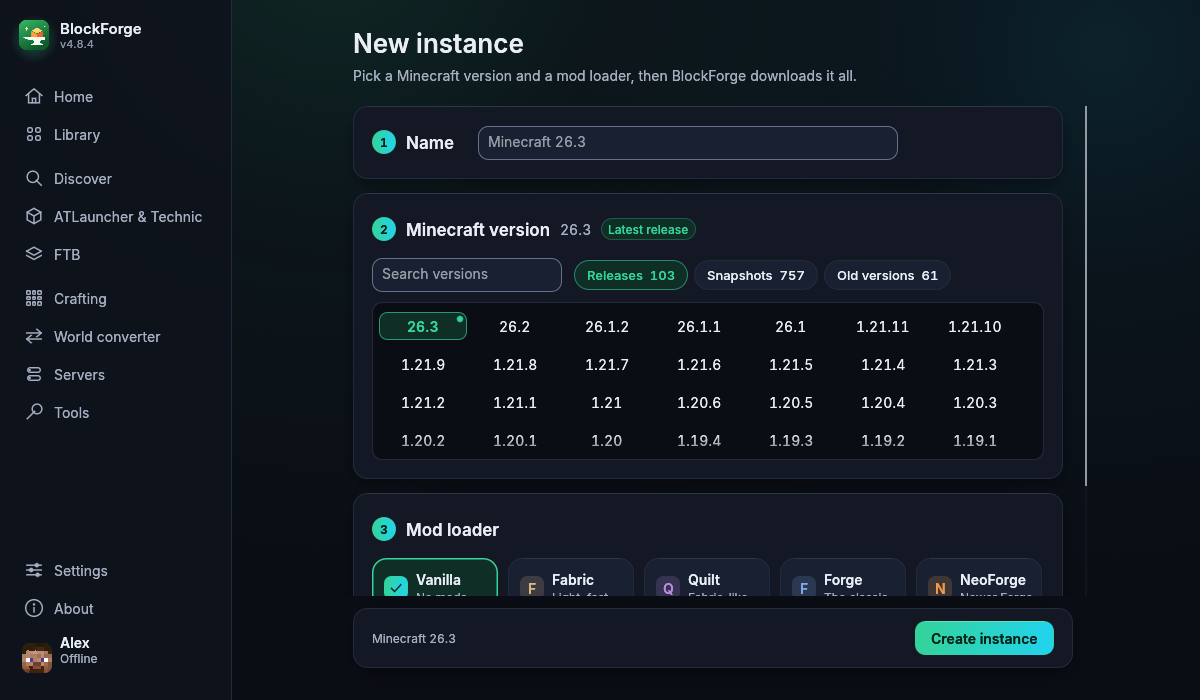
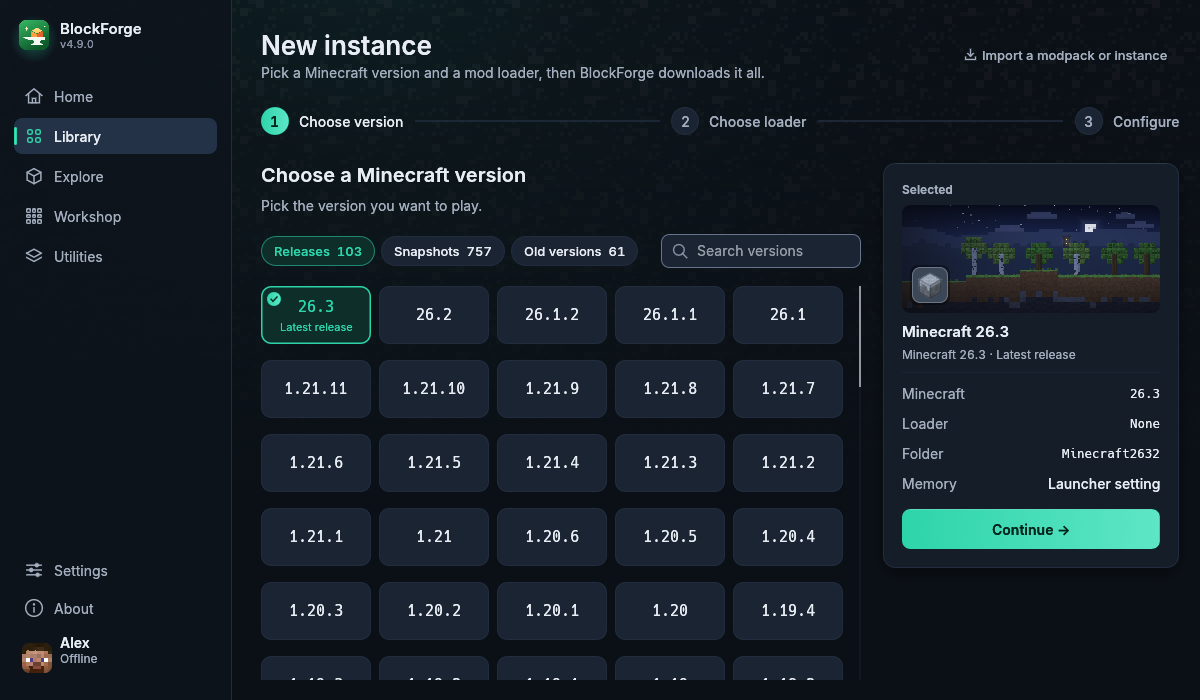
Screenshots and README for the Workbench: the new pages, the covers, and where things are now; the screenshot tour shows the converter's made-up folder as a fine place to save

diff --git a/src/gui/convert.rs b/src/gui/convert.rs
@@ -991,6 +991,8 @@ impl ConvertState {
                 Some(Dest { folder: "Survival".into(), name: "Survival".into(), saves, mc_version: "1.21.4".into() });
             self.via_instance = true;
         }
+        // the made-up folders aren't on this computer, and nothing is written for a picture: the place is fine
+        self.out_check = Some((self.output.clone(), self.source.clone(), OutputCheck::Ok));
         let job = ConvertJob {
             input: source,
             output: PathBuf::from(&self.output),

diff --git a/README.md b/README.md
@@ -39,6 +39,10 @@
 - **Native and fast.** The launcher is a single small Rust program: no Java to start up first, so the window is there in
   a fifth of a second. Minecraft itself still runs on Java, and BlockForge downloads the right Java for each game for
   you.
+- **Built around playing.** Home opens on the instance you played last, with one big Play button. Every instance gets
+  its own pixel-art landscape as its cover, drawn from its version, loader and a theme you can pick, so your
+  instances look like games, not rows in a table. Everything else sits in five places: Home, Library, Explore,
+  Workshop and Utilities.
 - **Play offline, no account needed.** Type any name and play, pick a saved player, or sign in with Microsoft. Signing in
   is optional.
 - **Every modpack source in one place.** ATLauncher, CurseForge, Modrinth, FTB and Technic packs, or any Minecraft version
@@ -56,11 +60,11 @@
   Forge and NeoForge. **Low-end mode** lowers the graphics settings of games on a slow computer (on by itself when the
   computer looks slow) and puts your own settings back when you switch it off. Each can be switched off in
   Settings > Game and for each instance on its own.
-- **A crafting calculator.** Pick an item and an amount and the Crafting page lists what to gather, what to craft or
+- **A crafting calculator.** Pick an item and an amount and the calculator in the Workshop lists what to gather, what to craft or
   smelt in order, the fuel, and how many chests it takes, using the recipes of your own Minecraft files, so every
   version from 1.13 on works.
-- **World conversion.** Bedrock Edition worlds to Java Edition, and only that way. The Tools page has a Convert a
-  Bedrock world screen (a world folder, or a `.mcworld` or `.zip`, to a Java world from 1.13 to the newest version), and
+- **World conversion.** Bedrock Edition worlds to Java Edition, and only that way. The Workshop has a world converter
+  that walks you through it step by step (a world folder, or a `.mcworld` or `.zip`, to a Java world from 1.13 to the newest version), and
   an instance has an Add a Bedrock world button that converts the world straight into its saves folder, so it shows
   up in Singleplayer. World conversion is powered by a Rust port of [Chunker](https://github.com/HiveGamesOSS/Chunker) by Hive Games (MIT). The original
   world is never changed. See [Credits and license](#credits-and-license).
@@ -74,15 +78,15 @@
 
 <table>
   <tr>
-    <td width="50%"><img src="docs/screenshots/home.png" alt="Home" width="100%"><br><sub>Home: continue where you left off, with a strip of the days you played</sub></td>
-    <td width="50%"><img src="docs/screenshots/library.png" alt="Library" width="100%"><br><sub>Library of your instances</sub></td>
+    <td width="50%"><img src="docs/screenshots/home.png" alt="Home" width="100%"><br><sub>Home: continue where you left off, on the instance's own cover</sub></td>
+    <td width="50%"><img src="docs/screenshots/library.png" alt="Library" width="100%"><br><sub>Library: covers, favourites and a filter for each loader</sub></td>
   </tr>
   <tr>
-    <td width="50%"><img src="docs/screenshots/mods.png" alt="Mods" width="100%"><br><sub>Mods with icons, updates and one-click switches</sub></td>
-    <td width="50%"><img src="docs/screenshots/discover.png" alt="Discover" width="100%"><br><sub>Find mods on Modrinth or CurseForge</sub></td>
+    <td width="50%"><img src="docs/screenshots/mods.png" alt="Mods" width="100%"><br><sub>Mods with icons, waiting updates and one-click switches</sub></td>
+    <td width="50%"><img src="docs/screenshots/discover.png" alt="Discover" width="100%"><br><sub>Explore Modrinth, CurseForge, ATLauncher, Technic and FTB in one place</sub></td>
   </tr>
   <tr>
-    <td width="50%"><img src="docs/screenshots/convert.png" alt="World converter" width="100%"><br><sub>World converter: Bedrock to Java</sub></td>
+    <td width="50%"><img src="docs/screenshots/convert.png" alt="World converter" width="100%"><br><sub>World converter: Bedrock to Java, step by step</sub></td>
     <td width="50%"><img src="docs/screenshots/crafting.png" alt="Crafting calculator" width="100%"><br><sub>Crafting calculator: what to gather and craft</sub></td>
   </tr>
 </table>
@@ -92,20 +96,20 @@
 
 <table>
   <tr>
-    <td width="50%"><img src="docs/screenshots/instance.png" alt="Instance" width="100%"><br><sub>One instance: facts, play history and backups</sub></td>
+    <td width="50%"><img src="docs/screenshots/instance.png" alt="Instance" width="100%"><br><sub>One instance: play time, play history and backups</sub></td>
     <td width="50%"><img src="docs/screenshots/logs.png" alt="Game log" width="100%"><br><sub>The game's log, live, with filter and copy</sub></td>
   </tr>
   <tr>
     <td width="50%"><img src="docs/screenshots/packs.png" alt="Modpacks" width="100%"><br><sub>ATLauncher and Technic modpacks</sub></td>
-    <td width="50%"><img src="docs/screenshots/create.png" alt="New instance" width="100%"><br><sub>New instance with any version and mod loader</sub></td>
+    <td width="50%"><img src="docs/screenshots/create.png" alt="New instance" width="100%"><br><sub>New instance in three steps: version, loader, the rest</sub></td>
   </tr>
   <tr>
     <td width="50%"><img src="docs/screenshots/who-is-playing.png" alt="Who's playing" width="100%"><br><sub>Who's playing: an offline name or Microsoft</sub></td>
-    <td width="50%"><img src="docs/screenshots/instance-settings.png" alt="Instance settings" width="100%"><br><sub>Settings of one instance: memory, Java, commands</sub></td>
+    <td width="50%"><img src="docs/screenshots/instance-settings.png" alt="Instance settings" width="100%"><br><sub>Settings of one instance: its cover, memory, Java, commands</sub></td>
   </tr>
   <tr>
     <td width="50%"><img src="docs/screenshots/accounts.png" alt="Accounts" width="100%"><br><sub>Accounts</sub></td>
-    <td width="50%"><img src="docs/screenshots/settings.png" alt="Settings" width="100%"><br><sub>Settings</sub></td>
+    <td width="50%"><img src="docs/screenshots/settings.png" alt="Settings" width="100%"><br><sub>Settings with a search across all of them</sub></td>
   </tr>
   <tr>
     <td width="50%"><img src="docs/screenshots/tools.png" alt="Tools" width="100%"><br><sub>Tools: network checker, support bundle, clean-up</sub></td>
@@ -216,13 +220,13 @@ import screen, which is what double-clicking a `.mrpack` does.
 
 ## What changed from ATLauncher
 
-- **Rewritten in Rust** with a new window written from scratch: sidebar navigation, Material-style dark and light looks,
-  18 themes, and vector icons.
+- **Rewritten in Rust** with a new window written from scratch: five places in the sidebar, a generated cover for every
+  instance, dark and light looks (or following the system), 18 themes, and vector icons.
 - **Offline players** are built in, and any account can be picked for a game with the Play as button next to Play, and several games can run at once.
 - **Performance helpers**: Fast start, the smoothness helper and Low-end mode (Settings > Game > Performance, and a
   switch on every instance), for every mod loader. If a game closes early with a helper on, BlockForge offers to turn
   them off, and switches the smoothness helper off by itself after two early closes in a row.
-- **Crafting calculator** (the Crafting page): materials, steps, tree and storage for any item, with your own stock,
+- **Crafting calculator** (in the Workshop): materials, steps, tree and storage for any item, with your own stock,
   saved plans and a shopping list to copy.
 - **Graphics card choice** for laptops with two cards (Settings > Game > Graphics card): power saving, high
   performance, or a card by name on Linux.
